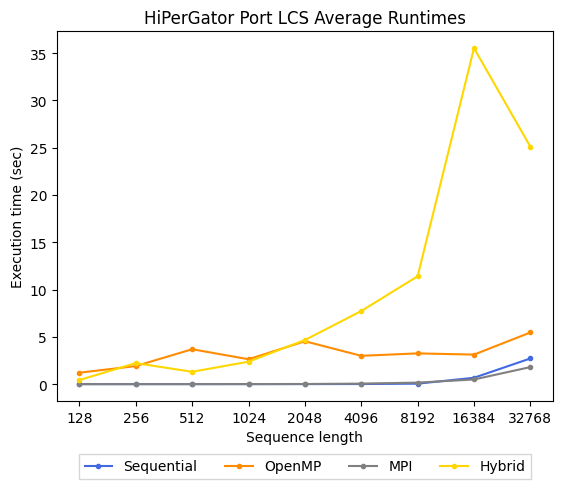
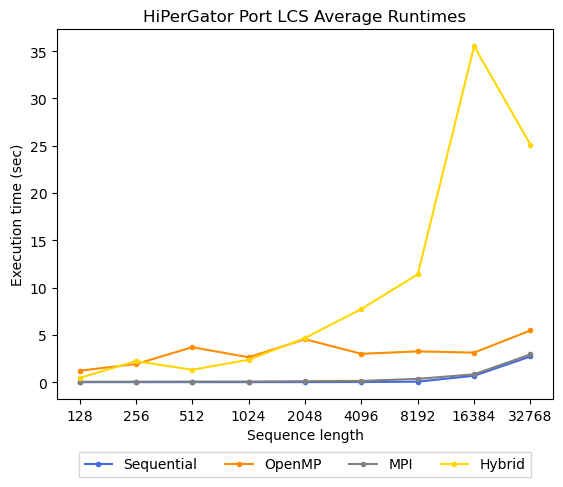
Updates results figure and mpi results

diff --git a/tools/plot.py b/tools/plot.py
@@ -26,15 +26,15 @@ avg_serial = [
 ]
 
 avg_mpi = [
-    0.0009,
-    0.0016,
-    0.0029,
-    0.0070,
-    0.0172,
-    0.0548,
-    0.1611,
-    0.4924,
-    1.8024,
+    0.0392,
+    0.0482,
+    0.0571,
+    0.0624,
+    0.0993,
+    0.126,
+    0.3462,
+    0.8288,
+    2.9324,
 ]
 
 avg_omp = [

diff --git a/README.md b/README.md
@@ -32,15 +32,15 @@ This resource configuration used 4 MPI ranks, with 1 node per rank.
 
 Data File | Sequence Length | Execution Times (sec) | Average Time (sec) |
 -- | -- | -- | -- |
-1 | 128    | 0.000781 0.000826 0.000909 0.000933 0.000885 0.000928 0.000881 0.000843 0.000812 0.000783 | 0.0009
-2 | 256    | 0.001420 0.001642 0.001606 0.001502 0.001574 0.001534 0.001533 0.001779 0.001542 0.001595 | 0.0016
-3 | 512    | 0.002765 0.002794 0.003021 0.003032 0.002808 0.002895 0.002748 0.002837 0.002865 0.002917 | 0.0029
-4 | 1024   | 0.006607 0.007608 0.007272 0.007079 0.007396 0.006403 0.006653 0.006762 0.007156 0.007018 | 0.0070
-5 | 2048   | 0.016473 0.016739 0.016742 0.016796 0.017201 0.018152 0.017032 0.016428 0.018390 0.017900 | 0.0172
-6 | 4096   | 0.065361 0.056541 0.067667 0.057429 0.046166 0.051763 0.051218 0.048193 0.051687 0.051998 | 0.0548
-7 | 8192   | 0.162353 0.162699 0.163085 0.161936 0.163740 0.167107 0.158388 0.162769 0.163486 0.145924 | 0.1611
-8 | 16384  | 0.507004 0.493545 0.487270 0.485374 0.477792 0.487721 0.501135 0.512924 0.496231 0.474635 | 0.4924
-9 | 32768  | 1.770670 2.129402 1.757656 1.761916 1.780164 1.767418 1.749707 1.778065 1.773650 1.755343 | 1.8024
+1 | 128    | 0.019729 0.022177 0.03823 0.056542 0.048627 0.032777 0.053743 0.044773 0.028842 0.046976 | 0.0392
+2 | 256    | 0.026766 0.06133 0.072586 0.059328 0.026465 0.038507 0.062153 0.043889 0.030711 0.06052 | 0.0482
+3 | 512    | 0.063678 0.035605 0.058359 0.080986 0.093693 0.045625 0.053005 0.055674 0.033691 0.050643 | 0.0571
+4 | 1024   | 0.045182 0.053157 0.074414 0.082618 0.059639 0.061575 0.06521 0.059162 0.06607 0.056574  | 0.0624
+5 | 2048   | 0.10042 0.109785 0.156331 0.092311 0.081484 0.090192 0.077452 0.121056 0.091945 0.072413 | 0.0993
+6 | 4096   | 0.115745 0.137244 0.122812 0.114469 0.127335 0.134278 0.137722 0.141049 0.115973 0.113538 | 0.126
+7 | 8192   | 0.263248 0.371826 0.295419 0.322134 0.325134 0.315329 0.344122 0.41915 0.438704 0.366474 | 0.3462
+8 | 16384  | 1.033553 0.697195 0.626562 0.800125 1.0532 0.875816 0.836243 0.714566 0.778922 0.871328  | 0.8288
+9 | 32768  | 2.878253 2.999817 2.994717 3.254026 3.261782 3.206938 3.324159 3.245434 2.06097 2.098348 | 2.9324
 
 ### OpenMP
 
